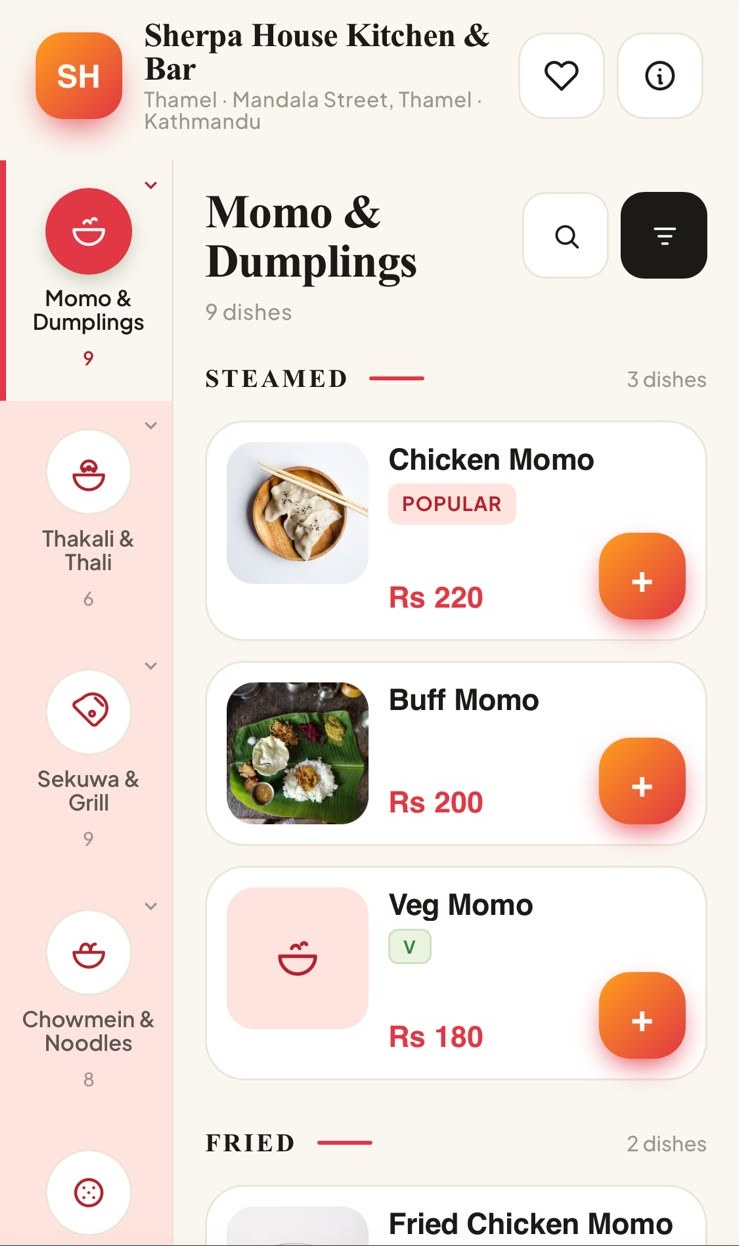
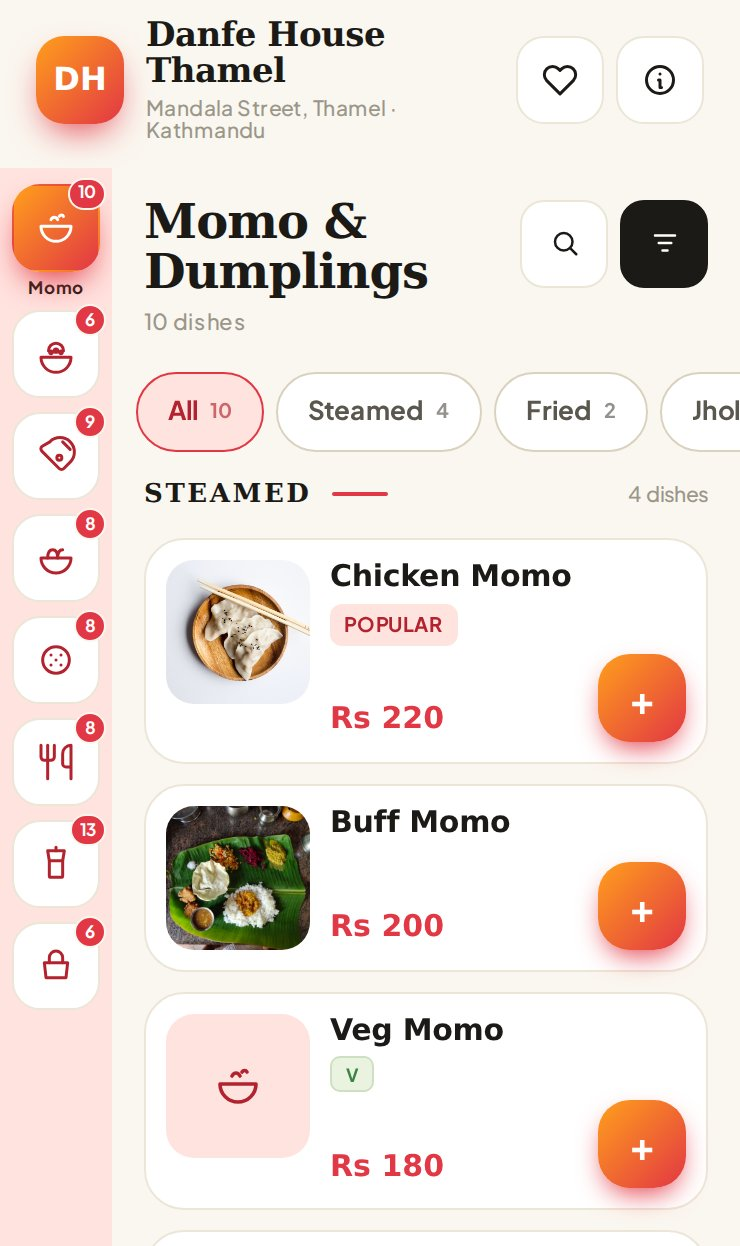
fix(landing): unwrap Get-started CTA on mobile; replace real venue/person names with fictional ones
- .mk-btn gets whitespace-nowrap so the nav/hero Get-started button no
  longer breaks onto two lines on narrow screens
- testco demo tenant renamed Sherpa House Kitchen & Bar -> Danfe House
  Kitchen & Bar (fixture, seed help, branch names); hero phone screenshot
  retaken from the reseeded live guest menu (saffron / iconrail)
- Chill Zone / chillzone.gaamos.io -> Momo Ghar / momoghar.gaamos.io in
  features, social proof and multi-branch mock cards
- contact-form placeholders Aashish Sharma / Chill Zone Café -> Suman
  Thapa / Momo Ghar Café, NE/KA catalogs updated to the new msgids
- tests updated accordingly; gitignore quarantined-media/

diff --git a/templates/marketing/_features.html b/templates/marketing/_features.html
@@ -34,10 +34,10 @@
   <!-- Feature 2: branded QR menu -->
   <div class="grid md:grid-cols-2 gap-10 items-center mb-16 mk-reveal">
     <div class="order-2 md:order-1 mk-card p-4">
-      <div class="text-xs text-ink-3 mb-2">chillzone.gaamos.io</div>
+      <div class="text-xs text-ink-3 mb-2">momoghar.gaamos.io</div>
       <div class="flex items-center gap-2 mb-3">
-        <span class="w-8 h-8 rounded-md mk-grad text-white text-xs font-bold flex items-center justify-center">CZ</span>
-        <span class="leading-tight"><span class="block text-sm font-semibold text-ink">Chill Zone</span><span class="block text-xs text-ink-3">{% translate "Lakeside · open now" %}</span></span>
+        <span class="w-8 h-8 rounded-md mk-grad text-white text-xs font-bold flex items-center justify-center">MG</span>
+        <span class="leading-tight"><span class="block text-sm font-semibold text-ink">Momo Ghar</span><span class="block text-xs text-ink-3">{% translate "Lakeside · open now" %}</span></span>
       </div>
       <div class="flex gap-2 mb-3 text-xs">
         <span class="px-3 py-1 rounded-full mk-grad text-white">Toast</span>
@@ -52,7 +52,7 @@
       <div class="mk-eyebrow">{% translate "Branded Menu" %}</div>
       <h3 class="font-hd text-2xl font-bold text-ink mt-2">{% translate "Your own address. Your own look." %}</h3>
       <p class="text-ink-2 mt-3">{% blocktranslate trimmed %}Every venue gets its own subdomain — <span class="text-ink font-medium">your.gaamos.io</span> — with your logo, your colors, your menu. Guests scan and browse instantly in the browser. No app store, no sign-up, no friction.{% endblocktranslate %}</p>
-      <div class="inline-flex items-center gap-1 mt-4 text-sm bg-bg rounded-lg px-3 py-2"><span class="text-ink font-medium">chillzone</span><span class="text-ink-3">.gaamos.io</span></div>
+      <div class="inline-flex items-center gap-1 mt-4 text-sm bg-bg rounded-lg px-3 py-2"><span class="text-ink font-medium">momoghar</span><span class="text-ink-3">.gaamos.io</span></div>
     </div>
   </div>
 

diff --git a/templates/marketing/_contact_form.html b/templates/marketing/_contact_form.html
@@ -5,11 +5,11 @@
   {% csrf_token %}
   <div class="grid gap-4 sm:grid-cols-2">
     <label class="block text-sm font-medium text-ink-2">{% translate "Your name" %} *
-      <input name="name" value="{{ values.name|default:'' }}" placeholder="{% translate 'Aashish Sharma' %}"
+      <input name="name" value="{{ values.name|default:'' }}" placeholder="{% translate 'Suman Thapa' %}"
              class="mk-input" required>
     </label>
     <label class="block text-sm font-medium text-ink-2">{% translate "Venue name" %} *
-      <input name="venue_name" value="{{ values.venue_name|default:'' }}" placeholder="{% translate 'Chill Zone Café' %}"
+      <input name="venue_name" value="{{ values.venue_name|default:'' }}" placeholder="{% translate 'Momo Ghar Café' %}"
              class="mk-input" required>
     </label>
   </div>

diff --git a/static/css/input.css b/static/css/input.css
@@ -665,7 +665,7 @@ h1,h2,h3 { font-family: var(--hd); }
   .mk-eyebrow { @apply text-xs font-semibold tracking-widest uppercase; color: var(--accent); }
   .mk-grad { background: var(--accent-grad); }
   .mk-grad-text { background: var(--accent-grad); -webkit-background-clip: text; background-clip: text; color: transparent; }
-  .mk-btn { @apply inline-flex items-center justify-center rounded-full px-6 py-3 font-semibold text-sm transition; }
+  .mk-btn { @apply inline-flex items-center justify-center whitespace-nowrap rounded-full px-6 py-3 font-semibold text-sm transition; }
   .mk-btn-primary { @apply mk-btn text-white; background: var(--accent-grad); box-shadow: 0 8px 20px rgba(226,55,68,.35); }
   .mk-btn-primary:hover { transform: translateY(-2px); }
   .mk-btn-ghost { @apply mk-btn text-ink bg-panel; border: 1px solid var(--line); }

diff --git a/templates/marketing/_hero.html b/templates/marketing/_hero.html
@@ -19,7 +19,7 @@
     <!-- Real product: guest menu in a phone frame + scannable demo QR -->
     <div class="mt-14 flex flex-col sm:flex-row items-center justify-center gap-8 sm:gap-10">
       <div class="w-64 sm:w-64 lg:w-72 mk-phone relative z-10">
-        <img src="{% static 'images/landing/menu-screen.jpg' %}" alt="{% translate 'Guest QR menu' %}" width="739" height="1246">
+        <img src="{% static 'images/landing/menu-screen.jpg' %}" alt="{% translate 'Guest QR menu' %}" width="740" height="1246">
       </div>
       <div class="mk-card p-5 text-center shadow-frame">
         <img src="{% static 'images/landing/demo-qr.png' %}" alt="{% translate 'Demo menu QR code' %}" class="w-32 h-32 mx-auto" width="330" height="330">

diff --git a/templates/marketing/_social_proof.html b/templates/marketing/_social_proof.html
@@ -2,6 +2,6 @@
 <section class="mk-wrap py-10 text-center border-y border-line">
   <p class="text-sm text-ink-3">{% translate "Powering menus for cafés, restaurants and bars across the region" %}</p>
   <div class="flex flex-wrap items-center justify-center gap-x-8 gap-y-3 mt-4 text-ink-2 font-semibold">
-    <span>Chill Zone</span><span>The Juicery Cafe</span><span>BREW &amp; CO</span><span>Café Mitho</span><span>ROAST HOUSE</span><span>The Terrace</span>
+    <span>Momo Ghar</span><span>The Juicery Cafe</span><span>BREW &amp; CO</span><span>Café Mitho</span><span>ROAST HOUSE</span><span>The Terrace</span>
   </div>
 </section>

diff --git a/core/tests/test_contact.py b/core/tests/test_contact.py
@@ -8,10 +8,10 @@ def test_contact_valid_post_creates_lead_and_returns_success(client):
     resp = client.post(
         "/en/contact",
         {
-            "name": "Aashish Sharma",
-            "venue_name": "Chill Zone Café",
+            "name": "Suman Thapa",
+            "venue_name": "Momo Ghar Café",
             "phone": "[phone redacted]",
-            "email": "[email redacted]",
+            "email": "[email redacted]",
             "venue_type": "Café",
             "message": "2 branches, ~60 items",
         },
@@ -20,7 +20,7 @@ def test_contact_valid_post_creates_lead_and_returns_success(client):
     assert resp.status_code == 200
     assert Lead.objects.count() == 1
     lead = Lead.objects.get()
-    assert lead.venue_name == "Chill Zone Café"
+    assert lead.venue_name == "Momo Ghar Café"
     assert "Request received" in resp.content.decode()
 
 
@@ -28,14 +28,14 @@ def test_contact_valid_post_creates_lead_and_returns_success(client):
 def test_contact_missing_phone_is_rejected(client):
     resp = client.post(
         "/en/contact",
-        {"name": "Aashish Sharma", "venue_name": "Chill Zone Café", "phone": ""},
+        {"name": "Suman Thapa", "venue_name": "Momo Ghar Café", "phone": ""},
         HTTP_HX_REQUEST="true",
     )
     assert resp.status_code == 200
     assert Lead.objects.count() == 0
     body = resp.content.decode()
     assert "name, venue name and phone" in body
-    assert "Aashish Sharma" in body  # submitted values preserved
+    assert "Suman Thapa" in body  # submitted values preserved
 
 
 @pytest.mark.django_db
@@ -62,7 +62,7 @@ def test_contact_xss_venue_type_not_reflected(client):
 @pytest.mark.django_db
 def test_contact_non_htmx_post_renders_full_page(client):
     resp = client.post("/en/contact", {
-        "name": "Aashish", "venue_name": "Chill Zone", "phone": "+977 98",
+        "name": "Suman", "venue_name": "Momo Ghar", "phone": "+977 98",
     })  # no HX-Request header
     assert resp.status_code == 200
     body = resp.content.decode()
@@ -81,7 +81,7 @@ def test_contact_non_htmx_get_redirects(client):
 @pytest.mark.django_db
 def test_contact_htmx_post_still_returns_fragment(client):
     resp = client.post("/en/contact", {
-        "name": "Aashish", "venue_name": "Chill Zone", "phone": "+977 98",
+        "name": "Suman", "venue_name": "Momo Ghar", "phone": "+977 98",
     }, HTTP_HX_REQUEST="true")
     body = resp.content.decode()
     assert "Request received" in body

diff --git a/core/tests/test_lead.py b/core/tests/test_lead.py
@@ -6,15 +6,15 @@ from core.models import Lead
 @pytest.mark.django_db
 def test_lead_creation_and_str():
     lead = Lead.objects.create(
-        name="Aashish Sharma",
-        venue_name="Chill Zone Café",
+        name="Suman Thapa",
+        venue_name="Momo Ghar Café",
         phone="[phone redacted]",
         venue_type="Café",
     )
     assert lead.email == ""
     assert lead.message == ""
     assert lead.created_at is not None
-    assert str(lead) == "Chill Zone Café — Aashish Sharma"
+    assert str(lead) == "Momo Ghar Café — Suman Thapa"
 
 
 @pytest.mark.django_db

diff --git a/core/views.py b/core/views.py
@@ -43,8 +43,8 @@ STEPS = [
     {"n": "3", "title": _("Receive orders"), "body": _("Guests scan, browse, and order from their own phone. Orders appear in your live queue the moment they're placed.")},
 ]
 BRANCHES = [
-    {"initials": "CZ", "name": "Chill Zone — Lakeside", "prefix": "chillzone", "orders": "42"},
-    {"initials": "CZ", "name": "Chill Zone — City Center", "prefix": "chillzone-city", "orders": "31"},
+    {"initials": "MG", "name": "Momo Ghar — Lakeside", "prefix": "momoghar", "orders": "42"},
+    {"initials": "MG", "name": "Momo Ghar — City Center", "prefix": "momoghar-city", "orders": "31"},
     {"initials": "TC", "name": "The Terrace Café", "prefix": "theterrace", "orders": "18"},
 ]
 TIERS = [

diff --git a/menu/tests/test_seed.py b/menu/tests/test_seed.py
@@ -53,10 +53,10 @@ class SeedTestcoTest(TestCase):
     def _company(self):
         return Company.objects.get(slug='testco')
 
-    def test_seed_creates_sherpa_house(self):
+    def test_seed_creates_danfe_house(self):
         call_command('seed_testco')
         company = self._company()
-        self.assertEqual(company.name, 'Sherpa House Kitchen & Bar')
+        self.assertEqual(company.name, 'Danfe House Kitchen & Bar')
         self.assertEqual(Branch.all_objects.filter(company=company).count(), 2)
         self.assertEqual(Category.all_objects.filter(company=company).count(), 8)
         self.assertEqual(SubCategory.all_objects.filter(company=company).count(), 17)

diff --git a/menu/management/commands/seed_testco.py b/menu/management/commands/seed_testco.py
@@ -15,7 +15,7 @@ FIXTURE = Path(settings.BASE_DIR) / 'menu' / 'fixtures' / 'testco.json'
 
 
 class Command(BaseCommand):
-    help = ('Wipe and reseed the `testco` test tenant as "Sherpa House Kitchen & Bar" '
+    help = ('Wipe and reseed the `testco` test tenant as "Danfe House Kitchen & Bar" '
             '(realistic Nepali menu for guest-UI design work).')
 
     @transaction.atomic

diff --git a/menu/tests/test_slugs.py b/menu/tests/test_slugs.py
@@ -25,6 +25,6 @@ def test_rejects_taken_slug_any_status():
 
 
 @pytest.mark.django_db
[email redacted]("ok", ["momohouse", "cafe-42", "a1", "sherpa-house-ktm"])
[email redacted]("ok", ["momohouse", "cafe-42", "a1", "danfe-house-ktm"])
 def test_accepts_valid_free_slugs(ok):
     validate_subdomain_slug(ok)   # no exception